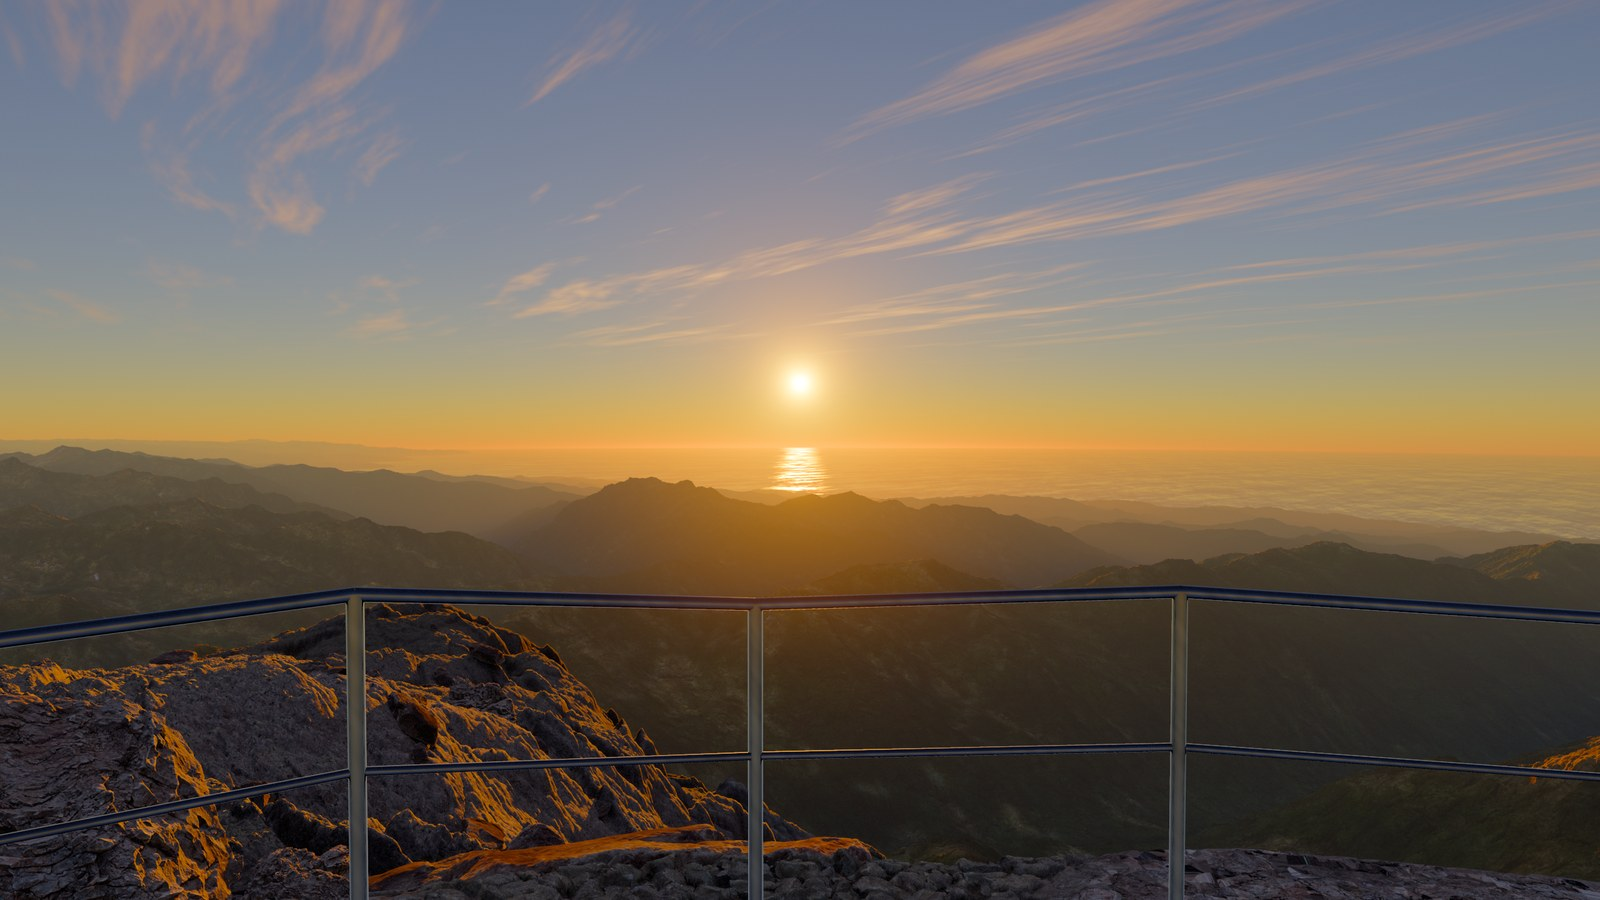
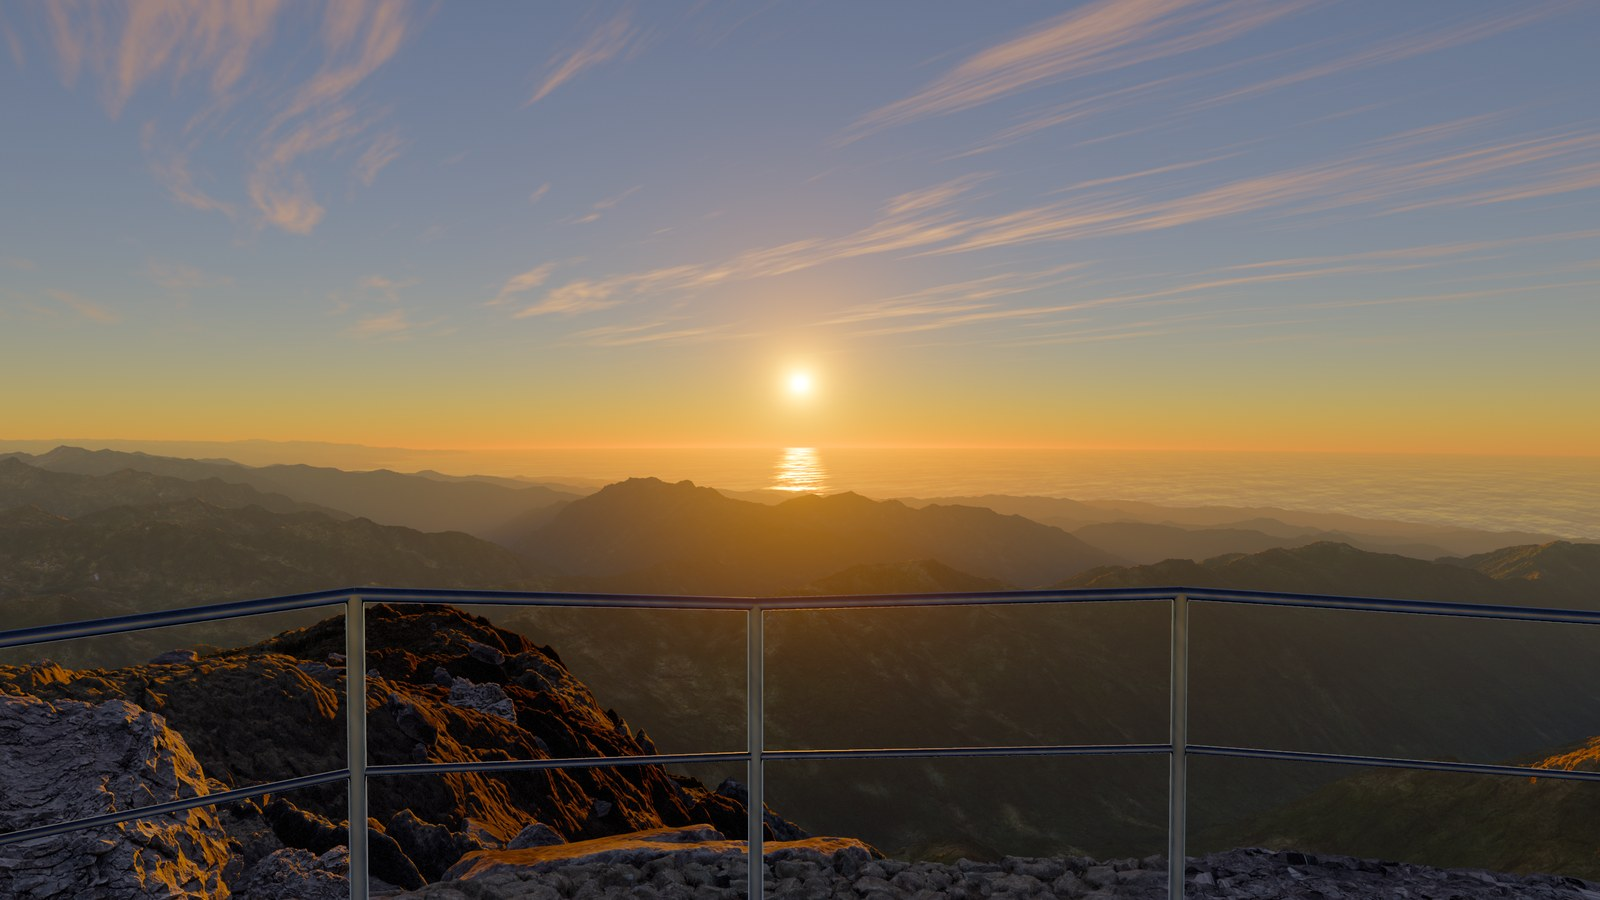
feat(dag): vary the summit's ground and flatten the setting sun
Seen from the terrace at tens of metres the fine scree read as leather
and the steep rock as purple: the hand-sized grain now stops at about
20 m, a field of boulders with real relief takes over, and the rocks'
scans lose their brown under the blue light. Bare rock patches come
down in brightness and area.

Through the binoculars the sun's own light drowned its edge in the
glare: its radiance now scales with the zoom's square, so the disk is
crisp, and it is flattened as the air flattens a setting sun.

The loading screen speaks in full Turkish and English; the console
stays ASCII. The exposure keys no longer reset the panel's samples.
The autotest walks them and presses F5.

Tests: tools/dag_olc.py passes, its thresholds in its own header.

Assisted-by: Claude Code

diff --git a/src/scenes/dag/dag_world.cpp b/src/scenes/dag/dag_world.cpp
@@ -1,4 +1,5 @@
 #define _USE_MATH_DEFINES
+#include "app/lang.h"
 #include "scenes/dag/dag_world.h"
 
 #include <windows.h>
@@ -220,9 +221,10 @@ bool DagWorld::prepare(const std::string& root, const Config& cfg) {
     const std::string assets = root + "/assets/dag", cache = root + "/cache/dag";
     std::error_code ec;
     fs::create_directories(cache, ec);
-    auto say = [&](float f, const std::string& s) {
-        if (progress) progress(f, s);
-        std::printf("dag: %s\n", s.c_str());
+    // the loading screen's line in the reader's language; the console in plain ASCII
+    auto say = [&](float f, const std::string& tr, const std::string& en, const std::string& ascii) {
+        if (progress) progress(f, app::L(tr, en));
+        std::printf("dag: %s\n", ascii.c_str());
         std::fflush(stdout);
     };
     Dem dem;
@@ -255,7 +257,7 @@ bool DagWorld::prepare(const std::string& root, const Config& cfg) {
         int coarseN = 0;
         float coarseCell = 0.0f;
         for (int k = 2; k >= 0; --k) {
-            say(0.02f + 0.03f * (2 - k), "Yeryuzunun egimi ve ufuklari: katman " + std::to_string(k));
+            say(0.02f + 0.03f * (2 - k), "Yeryüzünün eğimi ve ufukları", "The Earth's slopes and horizons", "Yeryuzunun egimi ve ufuklari: katman " + std::to_string(k));
             const int n = kClipN;
             const float cell = kClipCell[k];
             const float half = cell * n * 0.5f;
@@ -373,7 +375,7 @@ bool DagWorld::prepare(const std::string& root, const Config& cfg) {
                 toSrgb[k] = uint8_t(std::clamp(e, 0.0f, 1.0f) * 255.0f + 0.5f);
             }
             for (int k = 0; k < 3; ++k) {
-                say(0.12f + 0.03f * k, "Uydunun gunesi cikariliyor: katman " + std::to_string(k));
+                say(0.12f + 0.03f * k, "Uydunun güneşi çıkarılıyor", "Taking out the satellite's sun", "Uydunun gunesi cikariliyor: katman " + std::to_string(k));
                 const int n = an[k];
                 const float cell = ac[k], half = cell * n * 0.5f;
                 std::ifstream in(assets + "/" + aname[k] + ".rgb8", std::ios::binary);
@@ -436,7 +438,7 @@ bool DagWorld::prepare(const std::string& root, const Config& cfg) {
             std::ofstream(cache + "/albedo.ok") << "ok";
         }
         for (int k = 0; k < 3; ++k) {
-            say(0.2f + 0.03f * k, "Yeryuzunun rengi okunuyor: katman " + std::to_string(k));
+            say(0.2f + 0.03f * k, "Yeryüzünün rengi okunuyor", "Reading the Earth's colour", "Yeryuzunun rengi okunuyor: katman " + std::to_string(k));
             std::ifstream f(cache + "/" + aname[k] + ".bin", std::ios::binary);
             albedo[k].n = an[k];
             albedo[k].cell = ac[k];
@@ -459,7 +461,7 @@ bool DagWorld::prepare(const std::string& root, const Config& cfg) {
     {
         std::ifstream f(farPath, std::ios::binary);
         if (f) {
-            say(0.3f, "Gorunen yeryuzu okunuyor");
+            say(0.3f, "Görünen yeryüzü okunuyor", "Reading the visible Earth", "Gorunen yeryuzu okunuyor");
             uint64_t count = 0;
             f.read(reinterpret_cast<char*>(&count), sizeof(count));
             far.resize(size_t(count));
@@ -475,7 +477,7 @@ bool DagWorld::prepare(const std::string& root, const Config& cfg) {
     }
     if (!haveFar) {
         const double t1 = nowMs();
-        say(0.3f, "Tepeden gorunen her hucre bulunuyor");
+        say(0.3f, "Tepeden görünen her hücre bulunuyor", "Finding every cell the summit can see", "Tepeden gorunen her hucre bulunuyor");
         const double Rd = double(Re);
         std::vector<uint8_t> vis(size_t(kDemW) * kDemH, 0);
         struct Eye {
@@ -524,10 +526,10 @@ bool DagWorld::prepare(const std::string& root, const Config& cfg) {
                     s += s < 60000.0 ? 15.0 : s < 200000.0 ? 25.0 : 40.0;
                 }
             }, 64);
-            say(0.3f + 0.1f * float(e + 1) / eyes.size(), "Gorunen hucreler: goz " + std::to_string(e + 1) + "/" + std::to_string(eyes.size()));
+            say(0.3f + 0.1f * float(e + 1) / eyes.size(), "Tepeden görünen her hücre bulunuyor", "Finding every cell the summit can see", "Gorunen hucreler: goz " + std::to_string(e + 1) + "/" + std::to_string(eyes.size()));
         }
         // the cells to triangles, by whole degree
-        say(0.42f, "Ucgenler kuruluyor");
+        say(0.42f, "Üçgenler kuruluyor", "Building the triangles", "Ucgenler kuruluyor");
         struct TileJob {
             int lat, lon;
         };
@@ -707,7 +709,7 @@ bool DagWorld::prepare(const std::string& root, const Config& cfg) {
         shadowCell = 500.0f;
         shadowN = 2240;
         if (!(f && readVec(f, shadowBase))) {
-            say(0.5f, "Havanin golgesi icin yuksekler");
+            say(0.5f, "Havadaki gölge için yüksek yerler", "The high ground for the shadow in the air", "Havanin golgesi icin yuksekler");
             shadowBase.assign(size_t(shadowN) * shadowN, 0.0f);
             const float half = shadowCell * shadowN * 0.5f;
             parallelFor(shadowN, [&](int r) {
@@ -728,7 +730,7 @@ bool DagWorld::prepare(const std::string& root, const Config& cfg) {
         }
     }
     // the ground around the terrace: its height smooth (a cubic B-spline over the model's cells)
-    say(0.55f, "Terasin cevresindeki kaya");
+    say(0.55f, "Terasın çevresindeki kaya", "The rock around the terrace", "Terasin cevresindeki kaya");
     {
         const Geo g2 = geo;
         const Dem& D = dem;

diff --git a/src/scenes/dag/dag_app.cpp b/src/scenes/dag/dag_app.cpp
@@ -156,6 +156,8 @@ bool DagApp::initRenderer(std::string& err) {
     R.params.atmTop = air.top;
     R.params.sunRad = 0.2665f * M_PIf / 180.0f;
     R.params.sunCos = std::cos(R.params.sunRad);
+    R.params.sunFlat = cfg.f("sun.flat", 0.88f);
+    R.params.sunZoomGain = 1.0f;
     R.params.sunE = air.sunE;
     R.uploadRock(0, root + "/assets/dag/cc0/kayaA_albedo.jpg", root + "/assets/dag/cc0/kayaA_normal.jpg");
     R.uploadRock(1, root + "/assets/dag/cc0/kayaB_albedo.jpg", root + "/assets/dag/cc0/kayaB_normal.jpg");
@@ -178,6 +180,7 @@ bool DagApp::initRenderer(std::string& err) {
     }
     buildAir();
     applyDisplay();
+    R.setPattern(cfg.i("samples", 16), cfg.f("filter.sigma", 0.40f));
     farthestDrawn = measureFarthest();
     return true;
 }
@@ -265,8 +268,6 @@ void DagApp::applyDisplay() {
     R.params.albedoGainSnow = cfg.f("albedo.snow", 1.0f);
     R.params.rockGain = cfg.f("rock.gain", 1.7f);
     R.params.debug = cfg.i("debug", 0);
-    R.params.time = 0.0f;
-    R.setPattern(cfg.i("samples", 16), cfg.f("filter.sigma", 0.40f));
 }
 
 float DagApp::measureFarthest() {
@@ -309,6 +310,7 @@ void DagApp::render() {
     const float zoom = baseTan / tanY;
     const float k = std::clamp((zoom - 2.0f) / 14.0f, 0.0f, 1.0f);
     R.params.zoomK = 1.0f + cfg.f("zoom.contrast", 0.45f) * k;
+    R.params.sunZoomGain = 1.0f / std::max(zoom * zoom, 1.0f);
     if (k > 0.0f) {
         const float3 sk = dagSkyDir(tables, normalize(fwd + up * (6.0f * tanY / float(height) * 60.0f)));
         R.params.zoomPivot = (0.2126f * sk.x + 0.7152f * sk.y + 0.0722f * sk.z) * R.params.exposure;

diff --git a/src/app/app.cpp b/src/app/app.cpp
@@ -605,7 +605,10 @@ int App::run(const Options& opt) {
                 hold(GLFW_KEY_D, true); wait(6.0); hold(GLFW_KEY_D, false); wait(0.3); shot("dag_korkuluk_sag");
                 hold(GLFW_KEY_S, true); hold(GLFW_KEY_LEFT_SHIFT, true); wait(7.0); hold(GLFW_KEY_S, false); hold(GLFW_KEY_LEFT_SHIFT, false); wait(0.3); shot("dag_korkuluk_arka");
                 key(GLFW_KEY_SPACE); wait(0.25); shot("dag_ziplama"); wait(1.0); hold(GLFW_KEY_C, true); wait(0.6); shot("dag_egilme"); hold(GLFW_KEY_C, false); wait(0.3);
-                key(GLFW_KEY_TAB); wait(0.3); control("samples", 3); wait(1.5); log("dag 32 ornek"); control("samples", 4); wait(1.5); log("dag 64 ornek"); control("samples", 2); wait(0.3); key(GLFW_KEY_TAB);
+                key(GLFW_KEY_TAB); wait(0.3); control("samples", 3); wait(1.5); log("dag 32 ornek"); control("samples", 4); wait(1.5); log("dag 64 ornek");
+                // the exposure keys keep the panel's choice; F5: settings, programs, the air's tables again
+                key(GLFW_KEY_UP); wait(1.0); log("dag pozlama 64 ornek"); key(GLFW_KEY_DOWN); control("samples", 2); wait(0.3); key(GLFW_KEY_TAB);
+                key(GLFW_KEY_F5); wait(8.0); log("dag F5"); shot("dag_f5");
                 key(GLFW_KEY_R); wait(1.0);
             }
             if (infos_[s].id == "ates") {

diff --git a/src/scenes/dag/dag_near.cpp b/src/scenes/dag/dag_near.cpp
@@ -284,9 +284,9 @@ static void buildPolar(DagWorld& w, DagWorld::Polar& P, const std::vector<float2
                     const float big = dagBigStones(x, z), rock = dagBedrock(x, z);
                     const float fine = (disp->at(x, z, cell) - 0.4f) * dispAmp;
                     const float large = (disp->at(x, z, cell, 2.2f) - 0.4f) * dispAmp * 2.0f;
-                    stones = (fine + (large - fine) * big) * (1.0f - 0.8f * rock) + 0.05f * rock;
+                    stones = (fine + (large - fine) * big) * (1.0f - 0.55f * rock) + 0.05f * rock;
                 }
-                const float stoneFade = 1.0f - smooth(40.0f, 140.0f, r);
+                const float stoneFade = 1.0f - smooth(25.0f, 80.0f, r);
                 // the terrace: flat with a little unevenness inside its polygon, the natural ground beyond a short shoulder
                 const float d = r - polyR[a];
                 const float flat = 1.0f - smooth(0.6f, 4.0f, d);

diff --git a/src/scenes/dag/dag_shared.h b/src/scenes/dag/dag_shared.h
@@ -43,7 +43,7 @@ HD float dagBigStones(float x, float z) {
 // 1 bare rock
 HD float dagBedrock(float x, float z) {
     const float n = 0.7f * dagPatchNoise(x / 5.3f - 3.0f, z / 5.3f + 2.0f, 7u) + 0.3f * dagPatchNoise(x / 1.7f + 9.0f, z / 1.7f, 8u);
-    return smoothstepf(0.62f, 0.68f, n);
+    return smoothstepf(0.66f, 0.71f, n);
 }
 
 // one level of a clip stack: a square of the azimuthal equidistant plane around the summit
@@ -94,6 +94,8 @@ struct DagParams {
     float3 sunE;               // its irradiance above the air
     float sunCos;              // cos of its angular radius
     float sunRad;              // its angular radius (radians)
+    float sunFlat;             // how flattened the air makes it, as it sets
+    float sunZoomGain;         // the disk's light over the zoom's square
 
     // the ground
     DagClip albedo[DAG_CLIPS];     // the ground's colour, sRGB read linear (de-lit)
